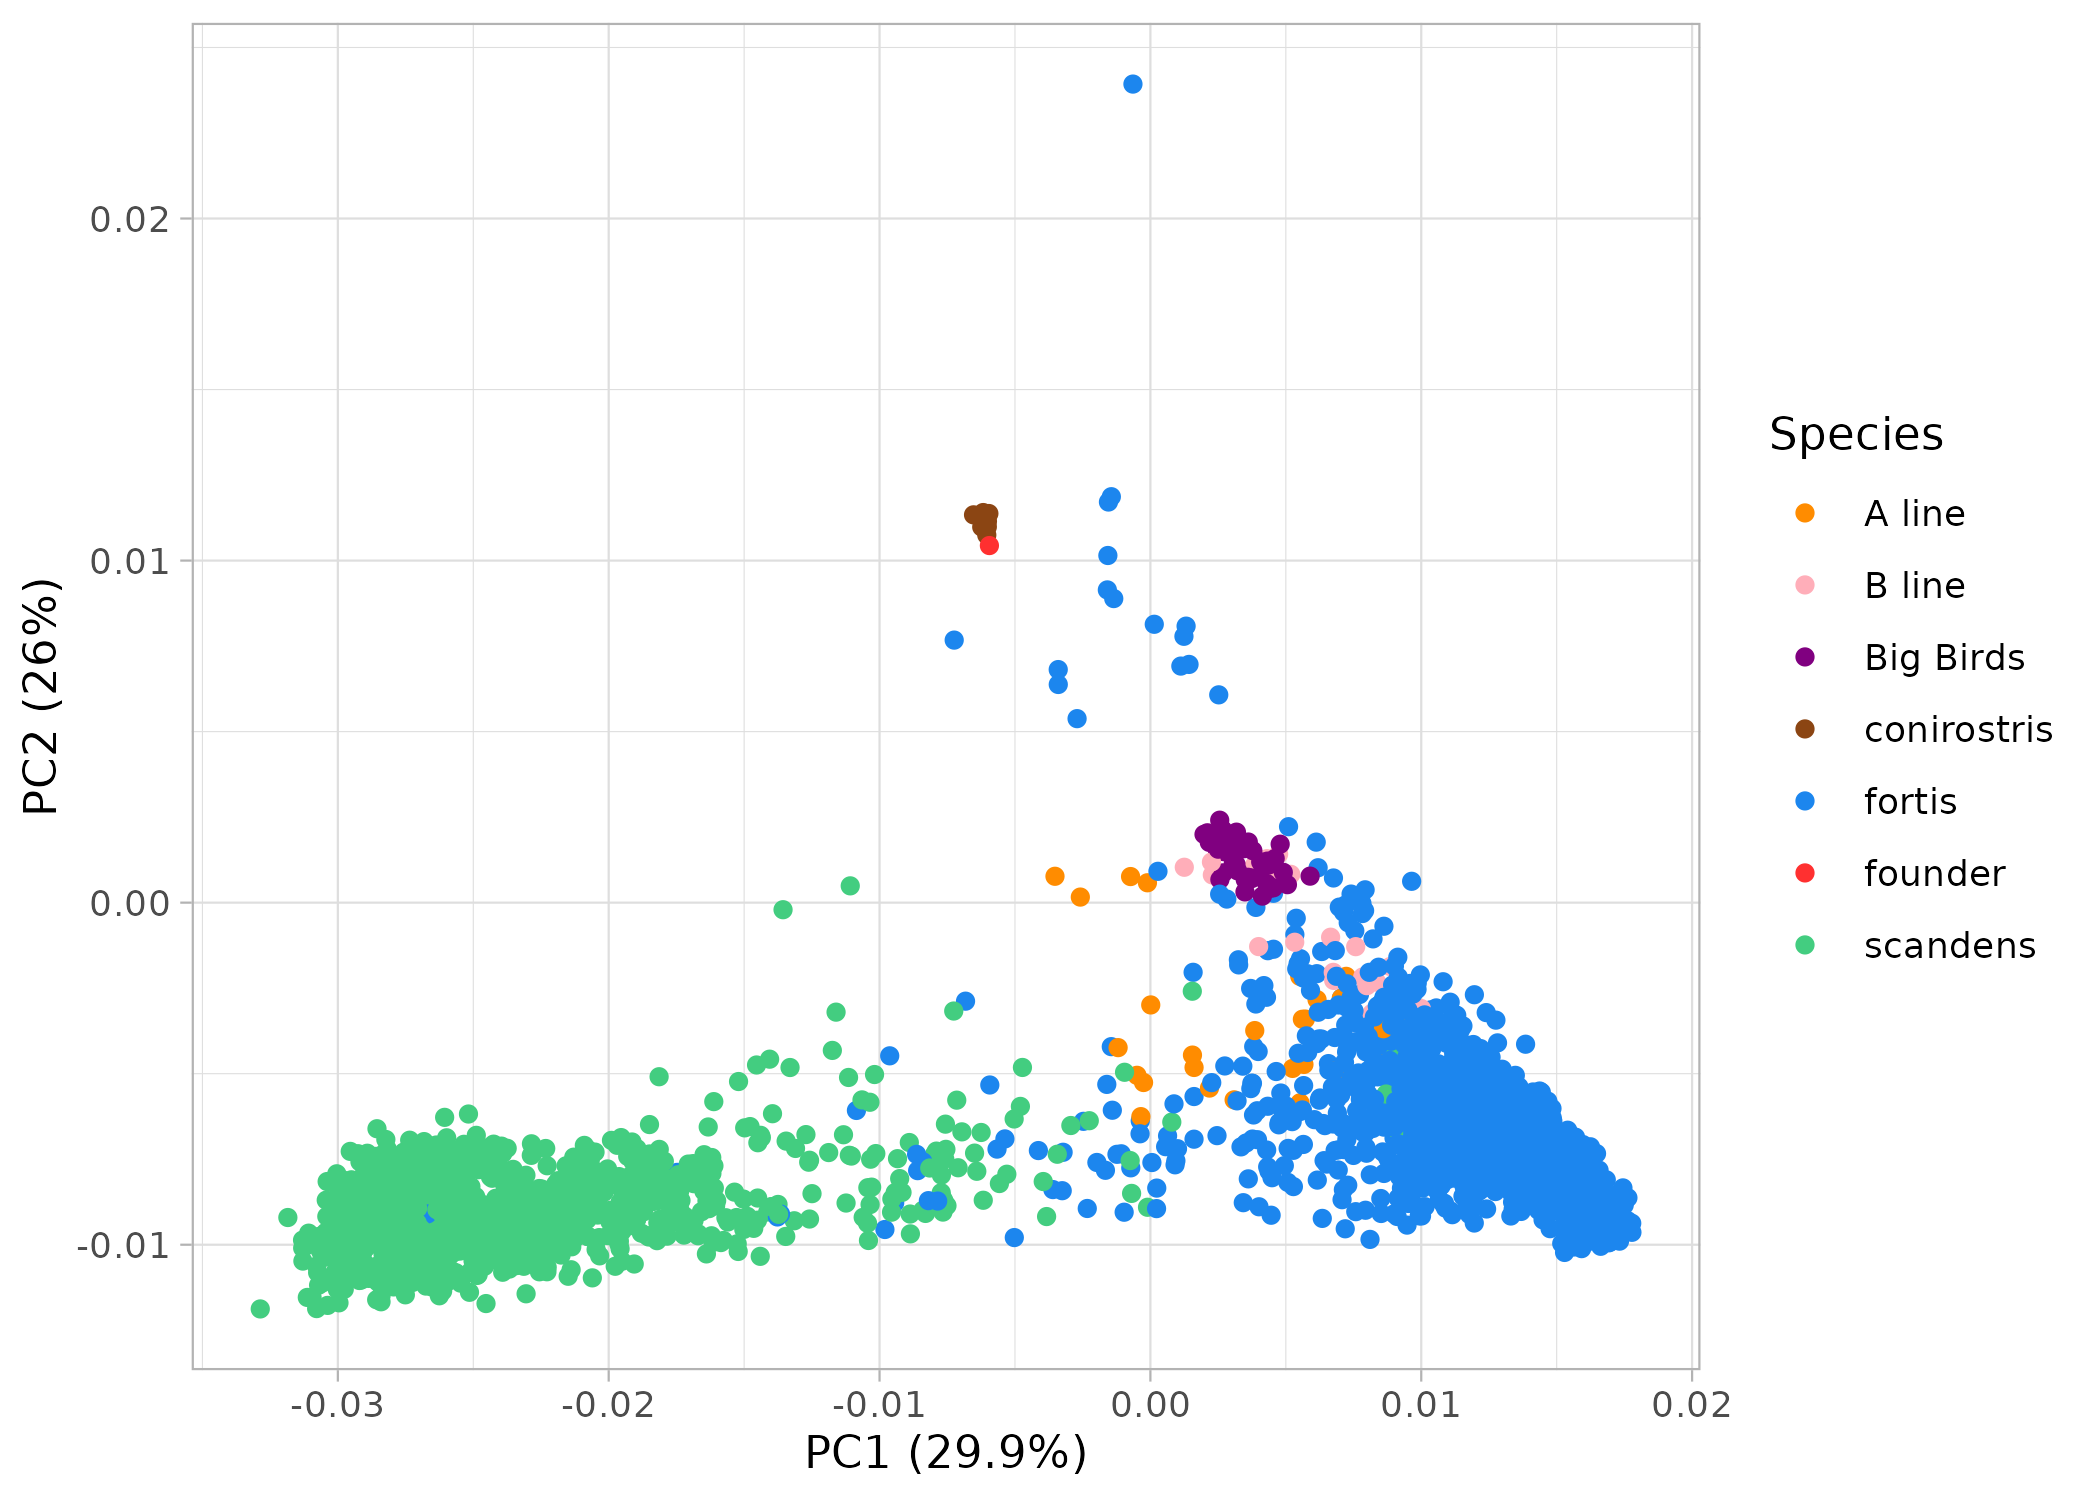
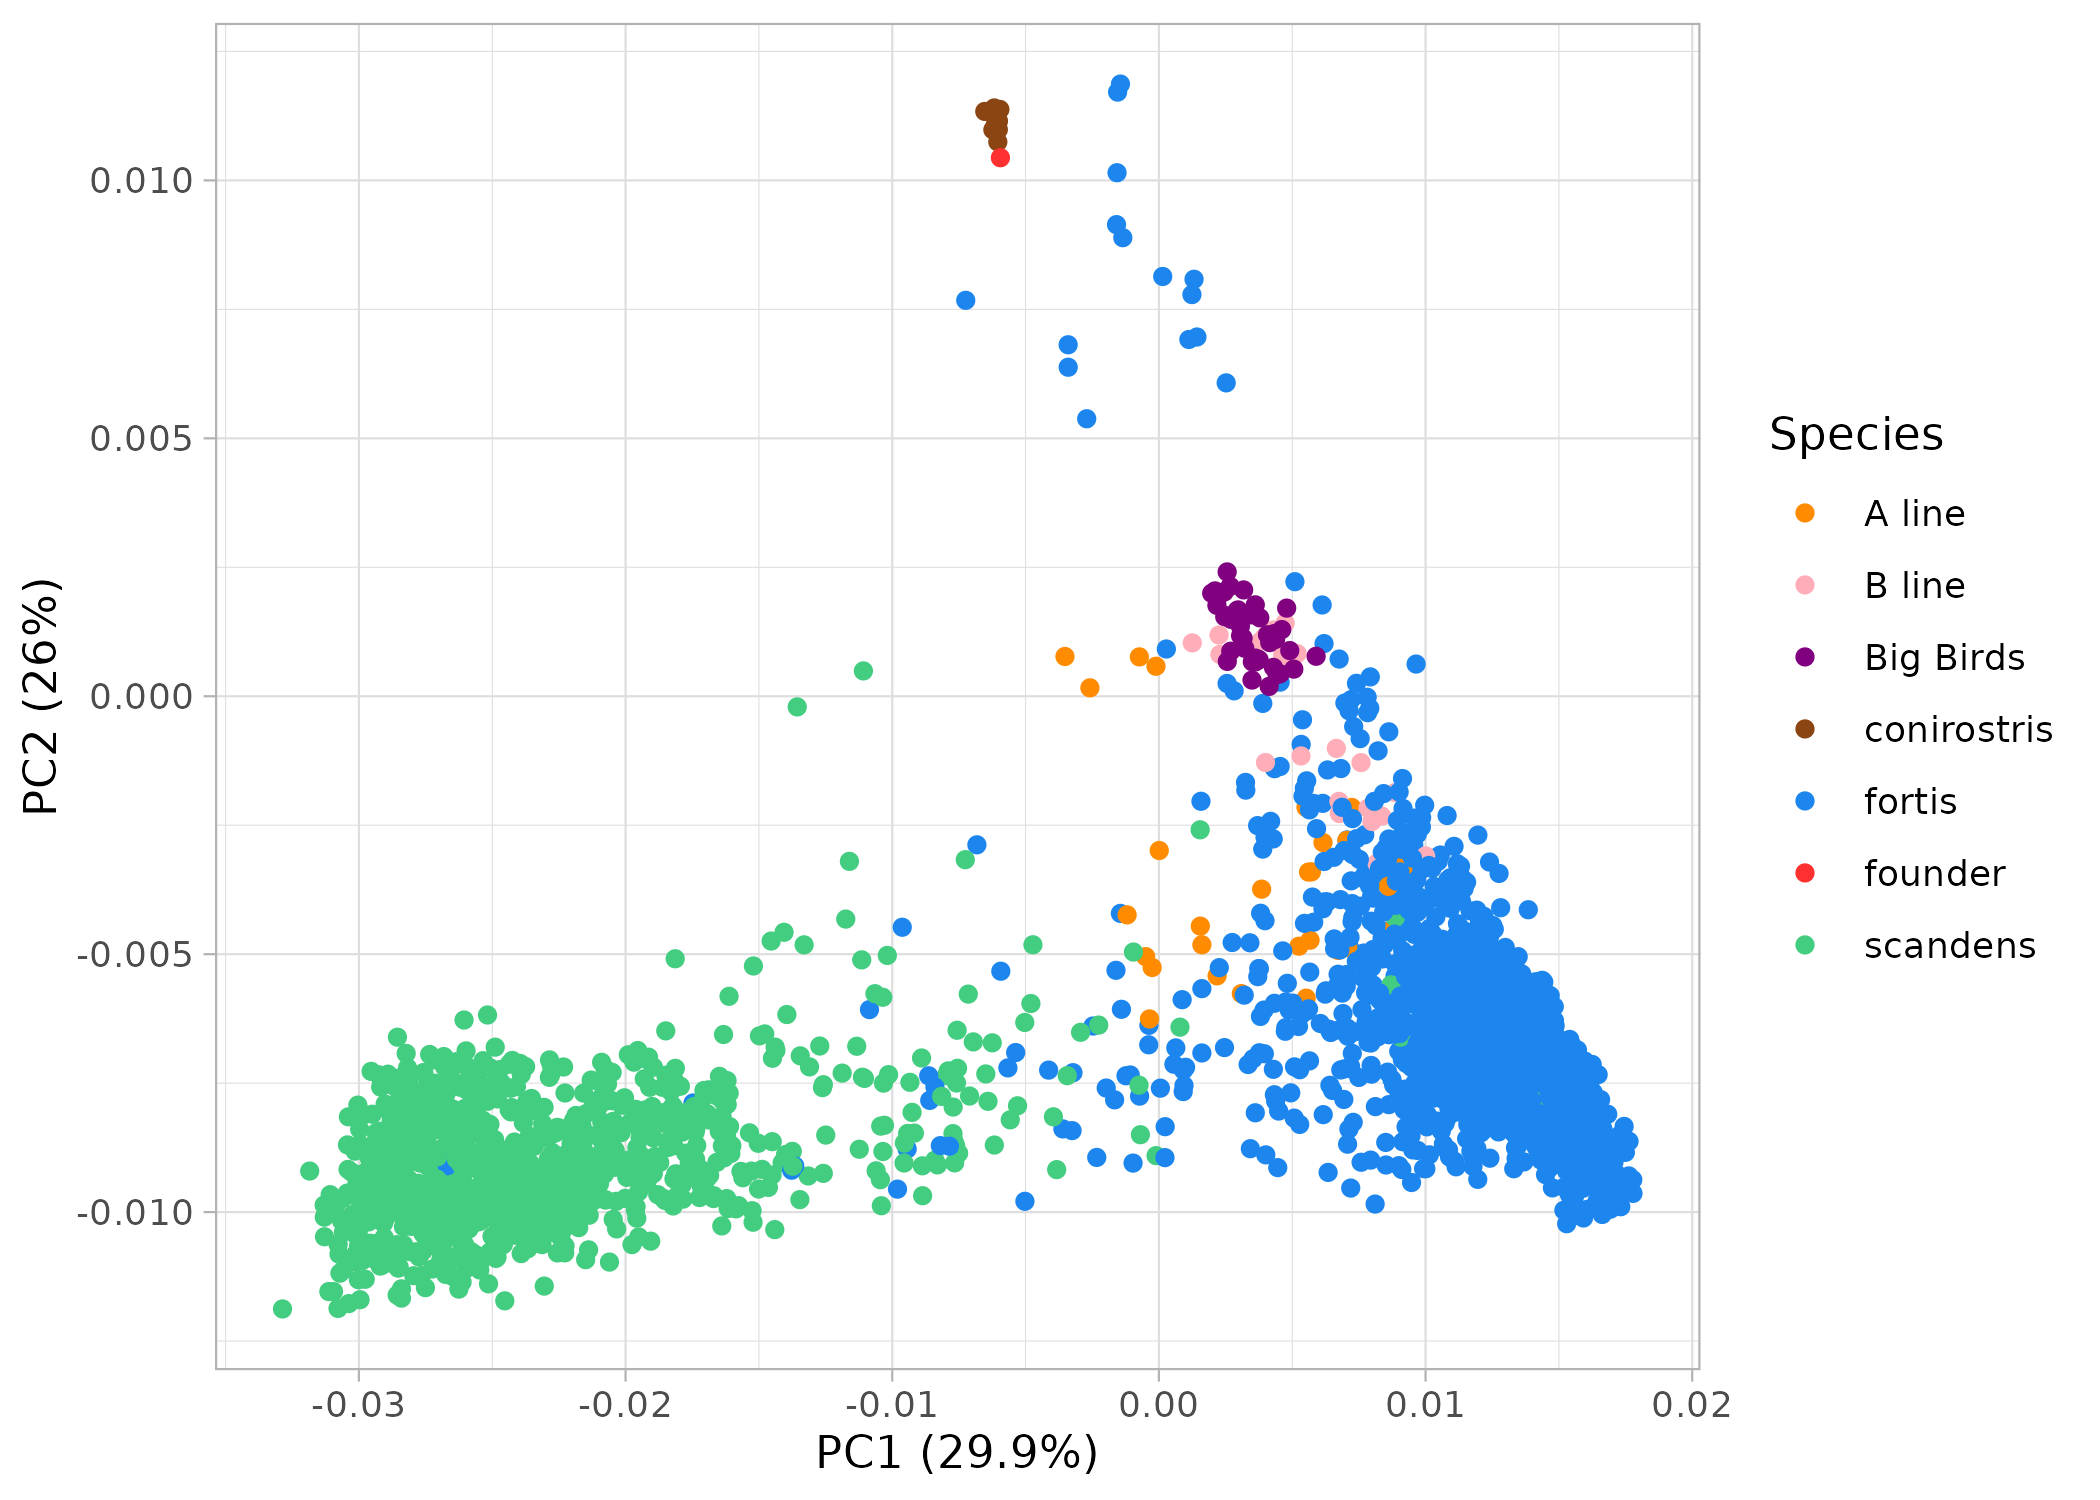
added machine learning

diff --git a/species_re-classification_ML/species_re-classification.py b/species_re-classification_ML/species_re-classification.py
@@ -1,0 +1,275 @@
+import pandas as pd
+import matplotlib.pyplot as plt
+import matplotlib.patches as mpatches
+import matplotlib.lines as mlines
+import numpy as np
+import random
+import seaborn as sns
+from sklearn.preprocessing import StandardScaler
+from sklearn.decomposition import PCA
+from sklearn.cluster import KMeans, SpectralClustering
+from sklearn.mixture import GaussianMixture
+from sklearn.ensemble import RandomForestClassifier
+from scipy.stats import norm
+from scipy.optimize import fsolve
+from sklearn.model_selection import StratifiedKFold
+from sklearn.metrics import accuracy_score
+
+# make plot theme more like R
+custom_params = {"font.family": "DejaVu Sans", "axes.facecolor": "white", "axes.edgecolor": "#DCDCDC", "axes.linewidth": 1.2, "axes.grid": True,
+    "grid.color": "#EAEAEA", "grid.linestyle": "-", "grid.linewidth": 0.5, "xtick.color": "black", "ytick.color": "black", "xtick.major.size": 0,
+    "ytick.major.size": 0}
+sns.set_style("whitegrid", rc=custom_params)
+plt.rcParams.update(custom_params)
+color_map_hex = {"fortis": "#1C86EE", "scandens": "#43CD80", "fuliginosa": "#C6E2FF", "hybrid": "#AB82FF"}
+# species epithets get italicized in figure text/legends
+SPECIES_NAMES = {"fortis", "scandens", "fuliginosa"}
+
+# set random seed
+seed = 1
+random.seed(seed)
+np.random.seed(seed)
+
+####################################################################################
+# PCA
+
+# first get the master database and filter
+master = pd.read_csv("/local/storage/all_birds_highcov_lowcov/Finch_Database_V2.csv")
+master.drop_duplicates(subset=["meaningful.unique"], inplace=True)
+master = master[master["Island"] == "Daphne"].copy()
+
+# fill in missing years with the minimum year, year born, or last year
+master["First.year"] = master["First.year"].fillna(master["First.year.min"])
+master["First.year"] = master["First.year"].fillna(master["Year.born"])
+master["First.year"] = master["First.year"].fillna(master["Last.year"])
+master["Last.year"] = master["Last.year"].fillna(master["First.year"])
+
+# update the newest lineage classifications
+bbs_lines = pd.read_csv("/local/storage/BigBirds/BigBirds.csv")
+bbs_lines.drop_duplicates(subset=["meaningful.unique"], inplace=True)
+master["lineage"] = master["meaningful.unique"].map(bbs_lines.set_index("meaningful.unique")["lineage"])
+master["lineage"] = master["lineage"].fillna(master["Species"])
+master = master.drop(columns=["Species"]).rename(columns={"lineage": "Species"})
+
+# filter to only the species of interest
+master = master[master["Species"].isin(["scandens", "fortis", "hybrid", "fuliginosa"])]
+master.set_index("meaningful.unique", inplace=True)
+master = master[["Species", "First.year", "bill.length", "bill.depth", "bill.width", "weight"]].dropna().copy()
+
+# PC1/PC2 of bill dimensions -> beak size / beak pointedness
+bill_scaled = StandardScaler().fit_transform(master[["bill.length", "bill.depth", "bill.width"]])
+pca = PCA(n_components=2)
+bill_pcs = pca.fit_transform(bill_scaled)
+exp_var1, exp_var2 = pca.fit(bill_scaled).explained_variance_ratio_
+master["PC(Beak Size)"] = bill_pcs[:, 0]
+master["PC(Beak Pointedness)"] = bill_pcs[:, 1]
+
+# compute beak dimensions
+master["pointy"] = master["bill.length"] / master["bill.depth"]
+master["sum"] = master["bill.length"] + master["bill.depth"] + master["bill.width"]
+
+# plot the PCA results
+plt.figure(figsize=(6.4, 4.8))
+sns.scatterplot(data=master, x="PC(Beak Size)", y="PC(Beak Pointedness)", hue="Species", palette=color_map_hex, s=40, alpha=0.7)
+plt.xlabel(f"PC1, Beak Size ({round(exp_var1*100, 2)}%)")
+plt.ylabel(f"PC2, Beak Pointedness ({round(exp_var2*100, 2)}%)")
+leg = plt.legend(title=None)
+for text in leg.get_texts():
+    if text.get_text() in SPECIES_NAMES:
+        text.set_fontstyle("italic")
+sns.despine(top=True, right=True, left=True, bottom=True)
+plt.tight_layout()
+plt.savefig("beak_traits_pca.png", dpi=450, bbox_inches="tight", pad_inches=0.05)
+plt.close()
+
+# plot PC1 vs. sum of beak traits
+plt.figure(figsize=(6.4, 4.8))
+sns.scatterplot(data=master, x="PC(Beak Size)", y="sum", hue="Species", palette=color_map_hex, s=40, alpha=0.7)
+plt.xlabel("PC1, Beak Size")
+plt.ylabel("Sum of Beak Traits")
+leg = plt.legend(title=None)
+for text in leg.get_texts():
+    if text.get_text() in SPECIES_NAMES:
+        text.set_fontstyle("italic")
+sns.despine(top=True, right=True, left=True, bottom=True)
+plt.tight_layout()
+plt.savefig("pc1_vs_sum.png", dpi=450, bbox_inches="tight", pad_inches=0.05)
+plt.close()
+
+# plot PC2 vs. pointedness
+plt.figure(figsize=(6.4, 4.8))
+sns.scatterplot(data=master, x="PC(Beak Pointedness)", y="pointy", hue="Species", palette=color_map_hex, s=40, alpha=0.7)
+plt.xlabel("PC2, Beak Pointedness")
+plt.ylabel("Beak Pointedness")
+leg = plt.legend(title=None)
+for text in leg.get_texts():
+    if text.get_text() in SPECIES_NAMES:
+        text.set_fontstyle("italic")
+sns.despine(top=True, right=True, left=True, bottom=True)
+plt.tight_layout()
+plt.savefig("pc2_vs_pointy.png", dpi=450, bbox_inches="tight", pad_inches=0.05)
+plt.close()
+
+####################################################################################
+# Random Forest
+
+# remove hybrids
+master = master[master["Species"] != "hybrid"].copy()
+
+# get the admixture info
+data = pd.read_csv("/SSD/reg259/big_bird_manuscript/ancestry_estimates/whole_data_new/admixture/finches.9.Q", sep="\\s+", header=None)
+fam = pd.read_csv("/SSD/reg259/big_bird_manuscript/ancestry_estimates/whole_data_new/admixture/finches.fam", sep="\\s+", header=None)
+data.index = fam[1]
+
+# add the admixture info to the master dataframe
+data.rename(columns={0: "anc_fort", 5: "anc_scan", 4: "anc_fuli"}, inplace=True)
+for anc in ["anc_fort", "anc_scan", "anc_fuli"]:
+    master[anc] = master.index.map(data[anc])
+
+# remove any that were not sequenced
+master.dropna(inplace=True)
+
+# select training and test data
+training = master[master["First.year"] != 2022].copy()
+test = master[master["First.year"] == 2022].copy()
+features = ["PC(Beak Size)", "PC(Beak Pointedness)", "weight", "anc_fort", "anc_scan", "anc_fuli"]
+
+# function to find the outliers
+def find_outliers(data):
+    Q1 = data.quantile(0.25)
+    Q3 = data.quantile(0.75)
+    IQR = Q3 - Q1
+    lower = Q1 - 1.5 * IQR
+    upper = Q3 + 1.5 * IQR
+    return(lower, upper)
+
+# remove outliers of each species (except hybrids) and for each feature
+inds_to_drop = []
+for spp in ["scandens", "fortis", "fuliginosa"]:
+    subset = training[(training["Species"] == spp)]
+    for feature in features:
+        lower, upper = find_outliers(subset[feature])
+        outliers = subset[(subset[feature] < lower) | (subset[feature] > upper)].index.to_list()
+        for outlier in outliers:
+            inds_to_drop.append(outlier)
+training.drop(inds_to_drop, inplace=True)
+
+# split into features and labels
+X_all = training[features].values
+Y_all = training["Species"].values
+X_test = test[features].values
+Y_test = test["Species"].values
+
+# evaluate the performace of the model
+skf = StratifiedKFold(n_splits=5, shuffle=True, random_state=seed)
+accuracies = []
+for fold, (train_idx, val_idx) in enumerate(skf.split(X_all, Y_all), 1):
+    # split into training and validation sets
+    X_train, X_val = X_all[train_idx], X_all[val_idx]
+    Y_train, Y_val = Y_all[train_idx], Y_all[val_idx]
+
+    # standardize features
+    scaler = StandardScaler()
+    X_train_scaled = scaler.fit_transform(X_train)
+    X_val_scaled = scaler.transform(X_val)
+
+    # fit Random Forest and predict on validation data
+    clf = RandomForestClassifier(class_weight="balanced", random_state=seed)
+    clf.fit(X_train_scaled, Y_train)
+    Y_pred = clf.predict(X_val_scaled)
+
+    # report the accuracy
+    acc = accuracy_score(Y_val, Y_pred)
+    accuracies.append(acc)
+    print(f"Fold {fold} Accuracy: {round(acc * 100, 2)}%")
+
+print(f"\nAverage Accuracy Across 5 Folds: {round(np.mean(accuracies) * 100, 2)}%")
+
+# standardize features
+scaler = StandardScaler()
+X_all_scaled = scaler.fit_transform(X_all)
+X_test_scaled = scaler.transform(X_test)
+
+# fit Random Forest and predict on the test data
+clf = RandomForestClassifier(class_weight="balanced", random_state=seed)
+clf.fit(X_all_scaled, Y_all)
+test["prediction"] = clf.predict(X_test_scaled)
+test["same"] = (test["Species"] == test["prediction"])
+
+####################################################################################
+# Post-ML Plots
+
+# plot the pca data again but with predictions for 2022
+different = test[~test["same"]]
+plt.figure(figsize=(6.4, 4.8))
+sns.scatterplot(data=test[test["same"]], x="PC(Beak Size)", y="PC(Beak Pointedness)", hue="Species", palette=color_map_hex, s=30, alpha=0.6, zorder=2)
+for spp, color in color_map_hex.items():
+    train_sub = training[training["Species"] == spp]
+    if not train_sub.empty:
+        plt.scatter(train_sub["PC(Beak Size)"], train_sub["PC(Beak Pointedness)"], facecolors="none", edgecolors=color, marker="o", linewidths=0.8, s=20, alpha=0.5, zorder=1)
+    test_sub = different[different["prediction"] == spp]
+    if not test_sub.empty:
+        plt.scatter(test_sub["PC(Beak Size)"], test_sub["PC(Beak Pointedness)"], c=test_sub["Species"].map(color_map_hex), edgecolors=color, marker="o", linewidths=1.5, s=50, alpha=0.75, zorder=3)
+train_handle = mlines.Line2D([], [], color="gray", marker="o", linestyle="None", markersize=6, markerfacecolor="None", markeredgewidth=1, label="training")
+test_handle = mlines.Line2D([], [], color="gray", marker="o", linestyle="None", markersize=6, markerfacecolor="gray", label="2022")
+plt.xlabel("PC1, Beak Size")
+plt.ylabel("PC2, Beak Pointedness")
+leg = plt.legend(title=None, handles=[train_handle, test_handle], loc="upper left")
+sns.despine(top=True, right=True, left=True, bottom=True)
+plt.tight_layout()
+plt.savefig("pca_rfc_ml.png", dpi=450, bbox_inches="tight", pad_inches=0.05)
+plt.close()
+
+# now make a series of ancestry vs. PC1 plots
+labels = [r"$\mathit{fortis}$ ancestry", r"$\mathit{scandens}$ ancestry", r"$\mathit{fuliginosa}$ ancestry"]
+fig, axs = plt.subplots(nrows=1, ncols=3, figsize=(23, 6))
+axs = axs.flatten()
+for i, anc, label in zip([0, 1, 2], ["anc_fort", "anc_scan", "anc_fuli"], labels):
+    sns.scatterplot(data=test[test["same"]], x=anc, y="PC(Beak Size)", hue="Species", palette=color_map_hex, s=30, alpha=0.6, zorder=2, ax=axs[i])
+    for spp, color in color_map_hex.items():
+        train_sub = training[training["Species"] == spp]
+        if not train_sub.empty:
+            axs[i].scatter(train_sub[anc], train_sub["PC(Beak Size)"], facecolors="none", edgecolors=color, marker="o",
+                           linewidths=0.8, s=20, alpha=0.5, zorder=1)
+        test_sub = different[different["prediction"] == spp]
+        if not test_sub.empty:
+            axs[i].scatter(test_sub[anc], test_sub["PC(Beak Size)"], c=test_sub["Species"].map(color_map_hex), edgecolors=color, marker="o",
+                           linewidths=1.5, s=50, alpha=0.75, zorder=3)
+    axs[i].set_xlabel(label)
+    axs[i].set_ylabel("PC1, Beak Size")
+    leg = axs[i].legend(title=None)
+    for text in leg.get_texts():
+        if text.get_text() in SPECIES_NAMES:
+            text.set_fontstyle("italic")
+sns.despine(top=True, right=True, left=True, bottom=True)
+plt.tight_layout()
+plt.savefig("anc_vs_PC1.png", dpi=450, bbox_inches="tight", pad_inches=0.05)
+plt.close()
+
+# now make a series of ancestry vs. PC2 plots
+fig, axs = plt.subplots(nrows=1, ncols=3, figsize=(23, 6))
+axs = axs.flatten()
+for i, anc, label in zip([0, 1, 2], ["anc_fort", "anc_scan", "anc_fuli"], labels):
+    sns.scatterplot(data=test[test["same"]], x=anc, y="PC(Beak Pointedness)", hue="Species", palette=color_map_hex, s=30, alpha=0.6, zorder=2, ax=axs[i])
+    for spp, color in color_map_hex.items():
+        train_sub = training[training["Species"] == spp]
+        if not train_sub.empty:
+            axs[i].scatter(train_sub[anc], train_sub["PC(Beak Pointedness)"], facecolors="none", edgecolors=color, marker="o",
+                           linewidths=0.8, s=20, alpha=0.5, zorder=1)
+        test_sub = different[different["prediction"] == spp]
+        if not test_sub.empty:
+            axs[i].scatter(test_sub[anc], test_sub["PC(Beak Pointedness)"], c=test_sub["Species"].map(color_map_hex), edgecolors=color, marker="o",
+                           linewidths=1.5, s=50, alpha=0.75, zorder=3)
+    axs[i].set_xlabel(label)
+    axs[i].set_ylabel("PC2, Beak Pointedness")
+    leg = axs[i].legend(title=None)
+    for text in leg.get_texts():
+        if text.get_text() in SPECIES_NAMES:
+            text.set_fontstyle("italic")
+sns.despine(top=True, right=True, left=True, bottom=True)
+plt.tight_layout()
+plt.savefig("anc_vs_PC2.png", dpi=450, bbox_inches="tight", pad_inches=0.05)
+plt.close()
+
+# print out the ones that changed
+print(different)
